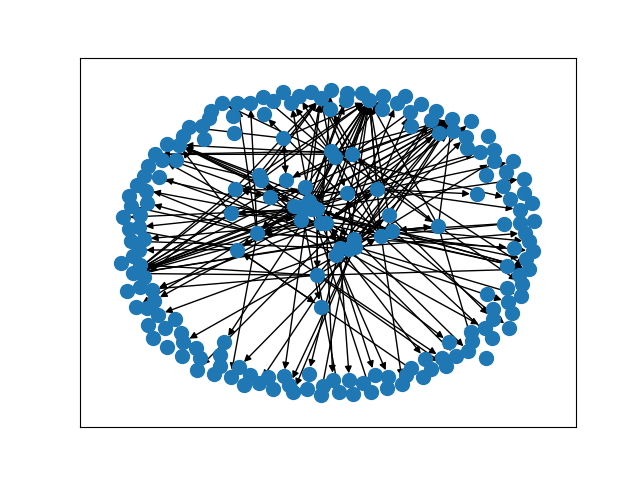
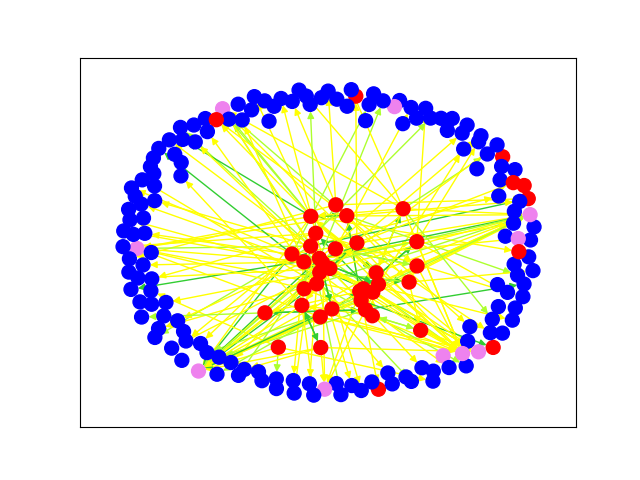
Colored visualisation based on community and edges based on weigth

Changed region(s): [[0.1562, 0.1562, 0.8438, 0.8438]]

diff --git a/group_project.py b/group_project.py
@@ -5,43 +5,50 @@ graph_early = nx.DiGraph()
 graph_middle = nx.DiGraph()
 graph_late = nx.DiGraph()
 
+# read csv files and create 3 networks
 with open('nodelist.csv', 'r') as nodefile:
     next(nodefile) # skip first line with headers
     for line in nodefile:
         id, role, community = line.split(',')
-        graph_early.add_node(id, role = role, community = community)
-        graph_middle.add_node(id, role = role, community = community)
-        graph_late.add_node(id, role = role, community = community)
+        graph_early.add_node(id, role = role, community = community.strip())
+        graph_middle.add_node(id, role = role, community = community.strip())
+        graph_late.add_node(id, role = role, community = community.strip())
 
 with open('edgelist-early.csv', 'r') as edgefile:
     next(edgefile) # skip headers
     for line in edgefile:
         node1, node2, weight = line.split(',')
-        graph_early.add_edge(node1, node2, weight = weight)
+        graph_early.add_edge(node1, node2, weight = int(weight.strip()))
 
 with open('edgelist-middle.csv', 'r') as edgefile:
     next(edgefile) # skip headers
     for line in edgefile:
         node1, node2, weight = line.split(',')
-        graph_middle.add_edge(node1, node2, weight = weight)
+        graph_middle.add_edge(node1, node2, weight = weight.strip())
 
 with open('edgelist-late.csv', 'r') as edgefile:
     next(edgefile) # skip headers
     for line in edgefile:
         node1, node2, weight = line.split(',')
-        graph_late.add_edge(node1, node2, weight = weight)
+        graph_late.add_edge(node1, node2, weight = weight.strip())
 
-get_community = nx.get_node_attributes(graph_early, 'community')
+# define coloring of nodes in visualisation based on the community they're placed in
 node_colors = []
-for node in graph_early:
-    print(node, get_community[node])
-    if get_community[node] == 'Professional':
-        node_colors.append('red')
-    elif get_community[node] == "Personal":
-        node_colors.append('blue')
+for n, data in graph_early.nodes(data = True):
+    if data['community'] == 'Professional':
+        node_colors.append("red")
+    elif data['community'] == "Personal":
+        node_colors.append("blue")
     else:
-        node_colors.append('purle')
-print(node_colors)
+        node_colors.append("violet")
 
-nx.draw_networkx(graph_early, pos=nx.spring_layout(graph_early), with_labels = False, node_size = 100)
+# define edge color based on weight
+subset_color = ["blue", "yellow", "greenyellow", "limegreen"]
+edge_colors = [subset_color[data['weight']] for start, end, data in graph_early.edges(data = True)]
+
+nx.draw_networkx(graph_early, pos=nx.spring_layout(graph_early),
+                 with_labels = False,
+                 node_size = 100,
+                 node_color = node_colors,
+                 edge_color = edge_colors)
 plt.savefig('graph_early.png')
